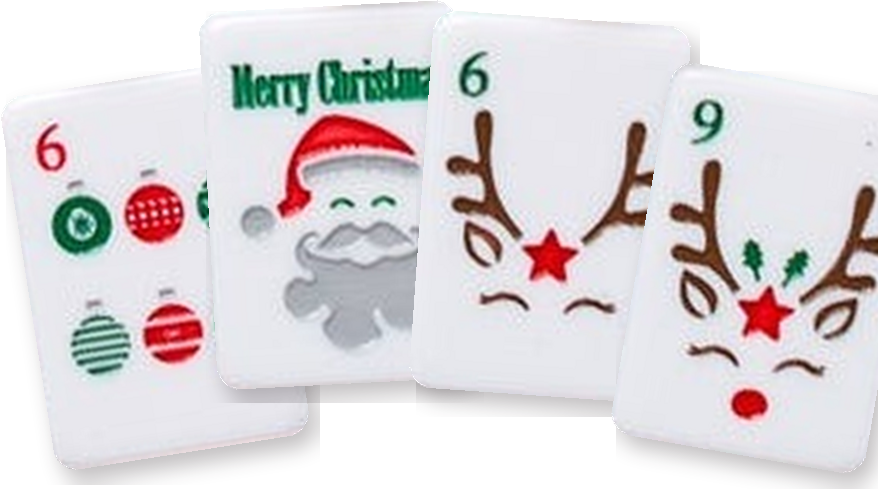
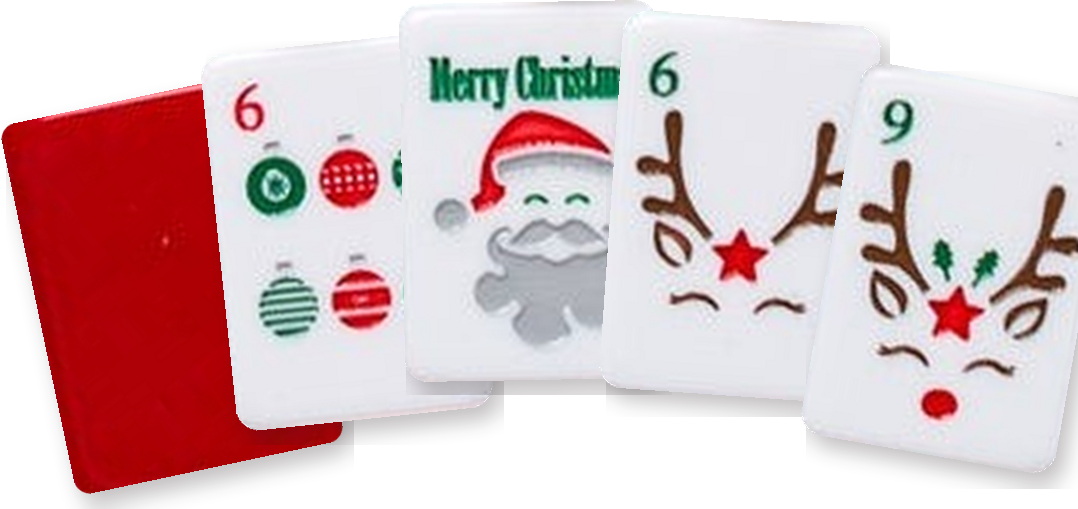
Rackin' Rudolph board: cherry red accents, mat right, bigger racks/cloth/tiles, red tile back, no holiday-edition line
Claude-Session: https://claude.ai/code/session_014aKoC1ZMdZPjGkZ9kHhnLk

diff --git a/assets/blog/holiday-tablescape-rudolph/mood_rr2.py b/assets/blog/holiday-tablescape-rudolph/mood_rr2.py
@@ -1,30 +1,29 @@
 exec(open('../hall/pin.py').read())
 W,Hh=1000,1500
-BG=(250,247,243,255); INK=(34,26,30); NAVY=(6,69,135); PINK=(214,96,140)
+BG=(250,247,243,255); INK=(34,26,30); NAVY=(6,69,135); PINK=(214,96,140); CHERRY=(222,34,54)
 c=Image.new('RGBA',(W,Hh),BG); d=ImageDraw.Draw(c)
 def lab(t,x,y,s=22,anchor='la'): ImageDraw.Draw(c).text((x,y),t,font=font('HomemadeApple.ttf',s),fill=INK,anchor=anchor)
 def arr(p0,p1,p2): arrow(ImageDraw.Draw(c),p0,p1,p2,col=INK,w=3)
-logo=fit(load(BR+'mahjmatchmaker-wordmark.png'),w=340); c.alpha_composite(logo,((W-340)//2,24))
+logo=fit(load(BR+'mahjmatchmaker-wordmark.png'),w=340); c.alpha_composite(logo,((W-340)//2,40))
 _pf=font('Caprasimo.ttf',44); _pt="How I’m Styling"; _pw=d.textlength(_pt,font=_pf)+90
-d.rounded_rectangle((W//2-_pw/2,120,W//2+_pw/2,196),38,fill=NAVY)
-d.text((W//2,160),_pt,font=_pf,fill=(255,255,255),anchor='mm')
-d.text((W//2,250),"The Rackin’ Rudolph Mat",font=font('Caprasimo.ttf',58),fill=PINK,anchor='mm')
-d.text((W//2,322),'holiday edition',font=font('HomemadeApple.ttf',38),fill=INK,anchor='mm')
+d.rounded_rectangle((W//2-_pw/2,142,W//2+_pw/2,218),38,fill=CHERRY)
+d.text((W//2,182),_pt,font=_pf,fill=(255,255,255),anchor='mm')
+d.text((W//2,284),"The Rackin’ Rudolph Mat",font=font('Caprasimo.ttf',58),fill=CHERRY,anchor='mm')
 # mat up top, label above with arrow down
-lab("rackin' rudolph mat",420,362,s=22); arr((540,398),(546,410),(538,424))
-MS=470; MX,MY=300,432
+lab("rackin' rudolph mat",640,362,s=22); arr((760,398),(766,410),(758,424))
+MS=470; MX,MY=W-MS-24,432
 m=load('cut/mat_rr.jpg').resize((MS,int(MS*1692/1670)),Image.LANCZOS)
 mk=Image.new('L',m.size,0); ImageDraw.Draw(mk).rounded_rectangle((0,0,m.width-1,m.height-1),20,fill=255); m.putalpha(mk)
 place(c,m,MX,MY)
 mb=MY+m.height
 # milk glass rack set laid over the bottom tartan border
-r=fit(load('cut/rack_milkglass.png'),w=320); place(c,r,MX+75,mb-62,rot=0)
-lab('middle & main milk glass racks',360,mb+78,s=21); arr((470,mb+74),(466,mb+62),(476,mb+50))
+r=fit(load('cut/rack_milkglass.png'),w=370); place(c,r,MX+50,mb-58,rot=0)
+lab('middle & main scalloped milk glass racks',470,mb+92,s=19); arr((700,mb+88),(696,mb+76),(706,mb+62))
 # left: cloth ; right: tiles
-lab('cherry red cloth',42,452,s=21); arr((150,488),(154,500),(146,512))
-cl=card(load('raw/t_31a3RZHWCgL.jpg'),170,170,r=22,border=8); place(c,cl,36,514,rot=-4)
-lab("rackin' rudolph tiles",28,752,s=19); arr((110,786),(114,798),(106,810))
-tf=fit(load('cut/tiles_fan.png'),w=245); place(c,tf,18,818,rot=-4)
+lab('cherry red cloth',60,404,s=22); arr((200,440),(205,452),(196,464))
+cl=card(load('raw/t_31a3RZHWCgL.jpg'),255,255,r=24,border=10); place(c,cl,70,466,rot=-4)
+lab("rackin' rudolph tiles",40,790,s=21); arr((150,826),(154,838),(146,850))
+tf=fit(load('cut/tiles_fan2.png'),w=420); place(c,tf,24,858,rot=-3)
 # bottom row
 Y=1090
 lab('the bow lamp',70,Y,s=22)
@@ -35,7 +34,7 @@ db=fit(load('cut/deer_box.png'),h=205); place(c,db,450,Y+82)
 lab('white marble coasters',680,Y+100,s=20)
 co=fit(load('cut/coaster_marble.png'),w=125); place(c,co,730,Y+150)
 d=ImageDraw.Draw(c)
-d.rounded_rectangle((90,1428,910,1488),30,fill=NAVY)
+d.rounded_rectangle((90,1428,910,1488),30,fill=CHERRY)
 d.text((W//2,1458),'shop the look  ·  mahjmatchmaker.com',font=font('DMSerif.ttf',30),fill=(255,255,255),anchor='mm')
 c.convert('RGB').save('out/holiday-mahjong-table-rackin-rudolph-shop-the-look.jpg',quality=92)
 print('mat bottom',mb)
